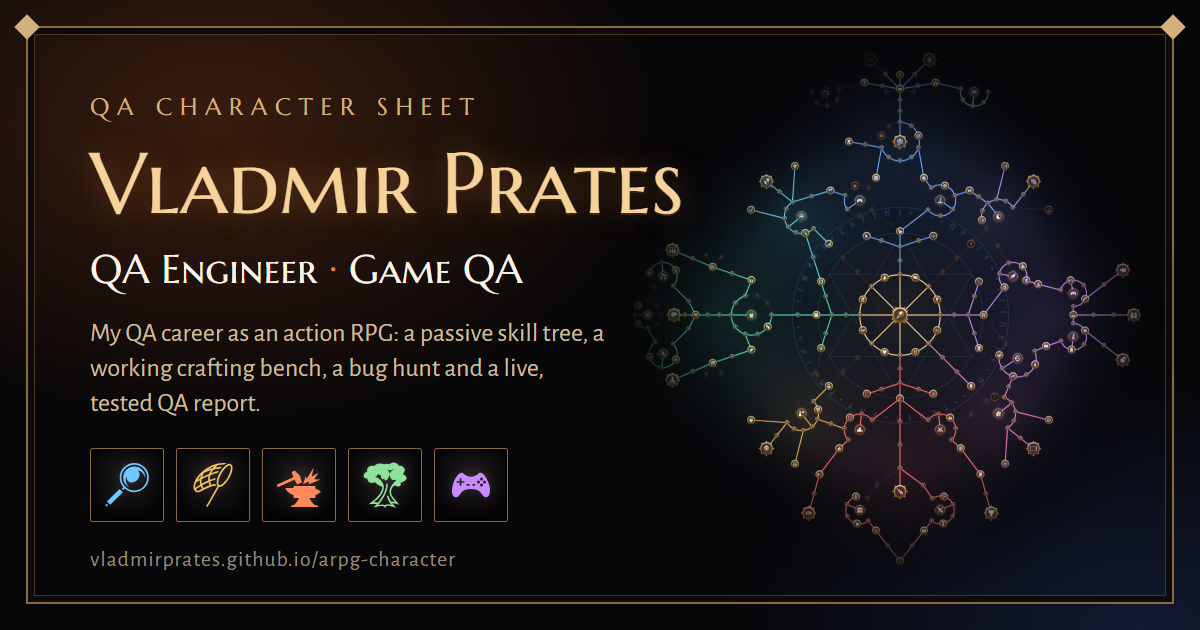
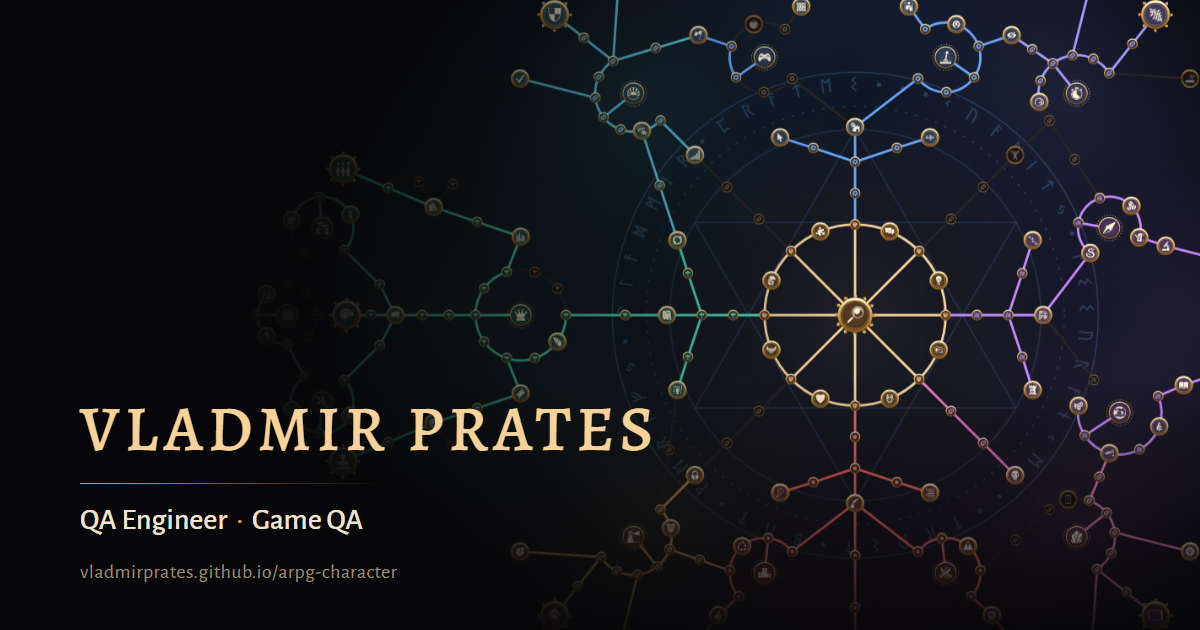
feat: new link-preview card in the site's current look
The passive tree fills the card, cropped close; the name sits low-left in the masthead's tracked
capitals, like a title card. Replaces the old card's label, icon row and framed layout.

diff --git a/index.html b/index.html
@@ -25,7 +25,7 @@
     <meta property="og:image:height" content="630" />
     <meta
       property="og:image:alt"
-      content="Vladmir Prates, QA Engineer: a dark-fantasy character sheet card with a health globe and a skill bar."
+      content="Vladmir Prates, QA Engineer · Game QA, over a glowing passive skill tree in the style of an action RPG."
     />
     <meta name="twitter:card" content="summary_large_image" />
     <meta name="twitter:title" content="Vladmir Prates — QA Engineer · QA Character Sheet" />
